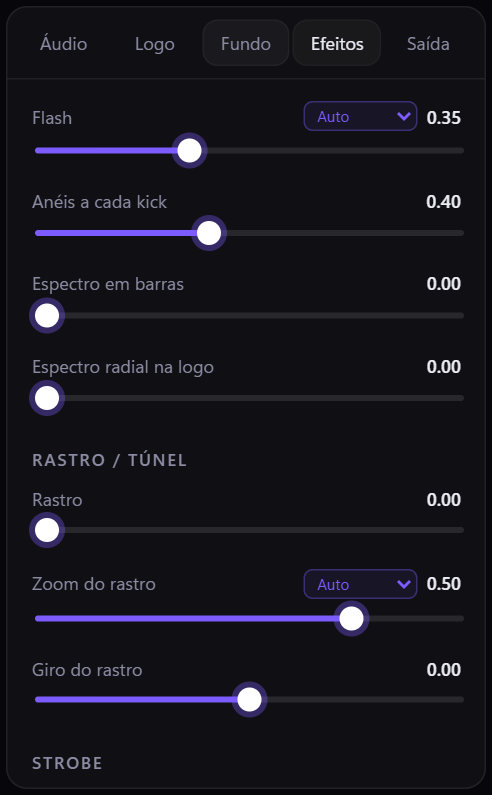
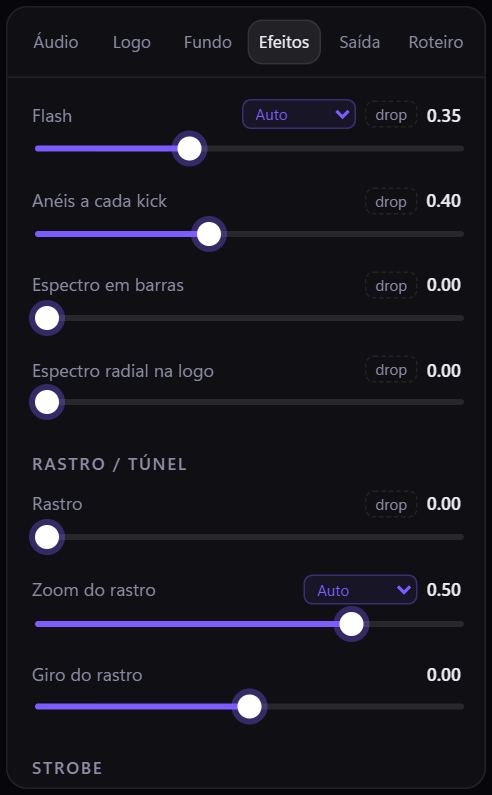
Tutorial e README: vídeo de fundo, efeitos no drop e roteiro
Capturas refeitas (barra com a pílula DROP, aba Roteiro) e novas: drop × breakdown,
vídeo no fundo, timeline do roteiro, modo DJ e GIF do roteiro tocando.

diff --git a/docs/TUTORIAL.md b/docs/TUTORIAL.md
@@ -23,14 +23,16 @@ projetar no telão e operar ao vivo (inclusive com controlador MIDI).
 9. [Fundo](#9-fundo)
 10. [Efeitos](#10-efeitos)
 11. [O que no som move cada efeito](#11-o-que-no-som-move-cada-efeito)
-12. [Projetar no telão](#12-projetar-no-telão)
-13. [Acertar o atraso do projetor (offset)](#13-acertar-o-atraso-do-projetor-offset)
-14. [Cenas: trocar o visual no meio do set](#14-cenas-trocar-o-visual-no-meio-do-set)
-15. [Controlador MIDI](#15-controlador-midi)
-16. [Atalhos do teclado](#16-atalhos-do-teclado)
-17. [Checklist do dia do show](#17-checklist-do-dia-do-show)
-18. [Problemas e soluções](#18-problemas-e-soluções)
-19. [Plano B](#19-plano-b)
+12. [Efeitos só no drop (quando o grave entra)](#12-efeitos-só-no-drop-quando-o-grave-entra)
+13. [Projetar no telão](#13-projetar-no-telão)
+14. [Acertar o atraso do projetor (offset)](#14-acertar-o-atraso-do-projetor-offset)
+15. [Cenas: trocar o visual no meio do set](#15-cenas-trocar-o-visual-no-meio-do-set)
+16. [Roteiro: efeitos marcados numa música](#16-roteiro-efeitos-marcados-numa-música)
+17. [Controlador MIDI](#17-controlador-midi)
+18. [Atalhos do teclado](#18-atalhos-do-teclado)
+19. [Checklist do dia do show](#19-checklist-do-dia-do-show)
+20. [Problemas e soluções](#20-problemas-e-soluções)
+21. [Plano B](#21-plano-b)
 
 ---
 
@@ -114,14 +116,14 @@ Funciona no improviso: pode ser o microfone do notebook ou um microfone USB pert
 |---|---|---|
 | 1 | **Entrada de áudio** + **Ouvir** | Escolhe de onde vem o som (interface, mic) e o canal. *Ouvir* liga a escuta. |
 | 2 | **Medidor** | Nível do sinal. Verde é bom; **CLIP** vermelho quer dizer que está alto demais. |
-| 3 | **BPM** + bolinhas | O andamento detectado e o estado (*procurando / ajustando / travado / segurando*). As 4 bolinhas andam no compasso. |
+| 3 | **BPM** + bolinhas | O andamento detectado e o estado (*procurando / ajustando / travado / segurando*). As 4 bolinhas andam no compasso; a pílula **DROP** acende quando há grave (seção 12). |
 | 4 | **TAP ½ ×2 ◀ ▶** | Ajuste manual do andamento (seção 7). |
-| 5 | **MIDI** e **BLACKOUT** | Liga o modo de mapear o controlador (seção 15) e apaga o telão na hora. Ao lado aparece o fps do telão. |
+| 5 | **MIDI** e **BLACKOUT** | Liga o modo de mapear o controlador (seção 17) e apaga o telão na hora. Ao lado aparece o fps do telão. |
 | 6 | **Preview** | O mesmo visual que está no telão, em tamanho pequeno. |
 | 7 | **Analisador** | Mostra o que o app está ouvindo e cada kick que ele aceitou (seção 6). |
-| 8 | **Abas de ajuste** | Áudio, Logo, Fundo, Efeitos e Saída. |
+| 8 | **Abas de ajuste** | Áudio, Logo, Fundo, Efeitos, Saída e **Roteiro** (seção 16). |
 | 9 | **Knobs de performance** | Os 10 efeitos mais usados ao vivo, sempre à mão. |
-| 10 | **Cenas** | 8 visuais prontos para trocar com crossfade no beat (seção 14). |
+| 10 | **Cenas** | 8 visuais prontos para trocar com crossfade no beat (seção 15). |
 
 ![A janela de controle funcionando](img/controle.gif)
 
@@ -249,13 +251,30 @@ os kicks. Use quando o BPM estiver certo e você não quiser que ele oscile.
 - **Cor 1 / Cor 2 / Degradê:** um fundo liso ou em degradê, com ângulo ajustável.
 - **Foto de fundo:** escolha uma imagem, ou **arraste a imagem para cima da janela**.
   *Preencher* corta para cobrir a tela toda; *Caber inteira* mostra a foto inteira.
-- **Cores da foto (automático):** ao escolher a foto, o app tira dela a cor mais viva para o
-  **brilho** (glow, anéis, flash e espectro) e as **Cor 1 / Cor 2** do fundo. Mudou as cores
-  na mão e quer voltar às da foto? Clique em **Cores da foto**.
-- **Opacidade, Desfoque e Brilho da foto:** para a foto não brigar com a logo.
+- **Cores do fundo (automático):** ao escolher a foto ou o vídeo, o app tira dele a cor mais
+  viva para o **brilho** (glow, anéis, flash e espectro) e as **Cor 1 / Cor 2** do fundo. Mudou
+  as cores na mão e quer voltar às do fundo? Clique em **Cores do fundo**.
+- **Opacidade, Desfoque e Brilho da foto/vídeo:** para a foto não brigar com a logo.
   Escurecer e desfocar um pouco costuma ficar ótimo.
 - **Girar matiz:** as cores do fundo giram sem parar (graus por segundo).
 - **Zoom do fundo / Brilho do fundo:** o fundo "respira" junto com o beat.
+
+### Vídeo em loop
+
+![Vídeo no fundo, com a logo na frente](img/video-telao.png)
+
+1. Em **Vídeo em loop**, clique em **Adicionar vídeo** (mp4 ou webm), ou **arraste o vídeo
+   para cima da janela**. Ele fica guardado no app, na sua biblioteca de vídeos.
+2. Clique no nome de um vídeo para usá-lo, ou em **Sem vídeo** para voltar à foto ou cor.
+   O **×** tira o vídeo da biblioteca.
+3. **Velocidade do vídeo:** de 0,25× (câmera lenta) a 2×.
+
+O vídeo usa os mesmos ajustes da foto (opacidade, desfoque, brilho, matiz, zoom e brilho no
+beat). Ele também pode ficar **só no drop** (seção 12). As **cenas** guardam qual vídeo está
+tocando, então trocar de cena pode trocar o vídeo.
+
+> Para o notebook não sofrer, prefira vídeos em **1080p ou menos**. Loops curtos (10 a 30 s)
+> feitos para VJ funcionam muito bem.
 
 ---
 
@@ -309,7 +328,36 @@ Ideias: **Glow → Bass** (a aura vibra com o baixo rolante), **Aberração → 
 
 ---
 
-## 12. Projetar no telão
+## 12. Efeitos só no drop (quando o grave entra)
+
+No psytrance, o breakdown tira o kick e o baixo; quando o grave volta, é o **drop**. O app
+percebe isso sozinho, e cada efeito pode ficar **só no drop**: no breakdown fica só a logo,
+limpa, e no drop os efeitos entram.
+
+| Breakdown (sem grave) | Drop (grave de volta) |
+|---|---|
+| ![Breakdown: só a logo](img/drop-breakdown.png) | ![Drop: anéis, espectro e rastro entram](img/drop-drop.png) |
+
+**Como usar:**
+
+1. Nos sliders de efeito (Flash, Anéis, Espectros, Rastro, Strobe, Aberração, Tremor, Zoom e
+   Brilho do fundo, Opacidade da foto/vídeo) há um chip **drop**.
+2. Clique nele para ligar (fica rosa). Aquele efeito passa a sumir no breakdown e entrar no drop.
+3. No topo, ao lado das bolinhas do compasso, a pílula **DROP** acende quando o app ouve grave.
+
+**Regulagem** (aba **Áudio**, seção *Drop*):
+
+- **Limiar do grave:** se a pílula DROP apaga com o grave tocando, **baixe**. Se ela acende
+  no breakdown, **suba**.
+- **Entrada/saída do drop:** quantos beats o efeito leva para aparecer e sumir. Com 1 beat o
+  drop "explode"; com 4 a 8 beats ele entra suave.
+
+> O app compara o grave de agora com o grave do último minuto. Por isso funciona igual numa
+> pista alta ou baixa, e não confunde uma faixa mais "magra" com um breakdown.
+
+---
+
+## 13. Projetar no telão
 
 ![Aba Saída](img/aba-saida.png)
 
@@ -326,7 +374,7 @@ Ideias: **Glow → Bass** (a aura vibra com o baixo rolante), **Aberração → 
 
 ---
 
-## 13. Acertar o atraso do projetor (offset)
+## 14. Acertar o atraso do projetor (offset)
 
 Todo projetor atrasa a imagem (30 a 80 ms é comum). Se nada for feito, o pulso parece
 chegar "depois" do kick. Como o app prevê o beat, dá para **adiantar** o pulso.
@@ -346,7 +394,7 @@ Para o ajuste fino durante o set, use **◀ ▶** (ou as setas do teclado). Cada
 
 ---
 
-## 14. Cenas: trocar o visual no meio do set
+## 15. Cenas: trocar o visual no meio do set
 
 ![Knobs e cenas](img/cenas.png)
 
@@ -375,7 +423,89 @@ backup, levar para outro notebook ou ter um arquivo para cada tipo de festa.
 
 ---
 
-## 15. Controlador MIDI
+## 16. Roteiro: efeitos marcados numa música
+
+Para as músicas que você conhece de cor (a abertura do set, a faixa autoral), dá para
+**marcar na música** o que acontece em cada ponto: troca de cena no drop, um strobe de 4
+beats no build, outro vídeo no breakdown, o rastro subindo devagar até o clímax.
+
+![Aba Roteiro e a timeline](img/roteiro-controle.png)
+
+### Criar um roteiro
+
+1. Abra a aba **Roteiro** e clique em **Nova música**. Escolha o arquivo (mp3, wav, flac, m4a
+   ou ogg). Ele fica **guardado dentro do app**.
+2. O app analisa a música, acha o **BPM** e o **1º beat** e desenha a música na timeline (no
+   lugar do analisador). Em **rosa** aparece o grave, então dá para ver onde estão os drops e
+   os breakdowns.
+3. Confira a grade. As linhas são os beats, e as numeradas são os compassos.
+   - Se o "1" do compasso não cai no tempo forte, use **1º tempo − / +**.
+   - Se as linhas estão um pouco antes ou depois dos kicks, use **−5ms / +5ms**.
+   - Se o BPM saiu errado, digite o BPM certo, ou confira a faixa de andamento na aba Áudio e
+     clique em **Analisar de novo**.
+
+### Marcar os pontos
+
+![Timeline com pontos](img/roteiro-timeline.png)
+
+| Na timeline | Faz |
+|---|---|
+| **Duplo clique** | Cria um ponto no beat (com **Shift**, no compasso). |
+| **Clique** num ponto | Seleciona o ponto, que você edita na aba Roteiro. |
+| **Arrastar** um ponto | Muda o ponto de lugar (com **Shift**, de compasso em compasso). |
+| **Clique** no fundo | Leva o cursor (linha branca) até ali. |
+| **Arrastar** o fundo / **roda** | Rola / dá zoom. |
+| **Delete** | Apaga o ponto selecionado. |
+
+Cada ponto é de um tipo (a cor na timeline mostra qual):
+
+| Tipo | O que faz |
+|---|---|
+| **Cena** (roxo) | Chama uma das 8 cenas, com crossfade de N beats. |
+| **Efeito** (rosa) | **Strobe** (1/1, 1/2 ou 1/4) por N beats, **Flash** (um clarão no beat), **Blackout** ou **Só logo** por N beats. Depois volta ao que estava. |
+| **Vídeo** (azul) | Troca o vídeo de fundo, de forma instantânea (o telão já deixa carregado). |
+| **Knob** (verde) | Leva um ajuste (rastro, glow, zoom, matiz…) até um valor em N beats, como uma automação. |
+
+Os pontos ficam marcados **em beats**, não em segundos. Por isso o mesmo roteiro funciona
+mesmo se o DJ mexer no pitch.
+
+### Rodar: quem toca a música?
+
+**O app toca** (*O app*). Bom para abertura, intro gravada ou apresentação.
+
+1. Escolha a **saída de áudio** (por exemplo, a que vai para a mesa).
+2. Posicione o cursor e clique em **▶ Tocar** (ou **G**). O app toca o arquivo e os pontos
+   disparam exatamente no tempo.
+3. Clicar na timeline durante a música pula para aquele ponto. O visual já assume a cena e o
+   vídeo daquele trecho.
+
+**O DJ toca nos decks** (*O DJ (GO)*). O app não sabe onde a música está, então você avisa
+com o **GO**:
+
+![Modo DJ: GO](img/roteiro-dj.png)
+
+1. Escolha o **compasso do GO**, por exemplo o 1º compasso ou o primeiro drop. Coloque o
+   cursor lá e clique em **usar cursor**.
+2. Com a música tocando e o **BPM travado**, aperte **GO** (**G** ou um pad MIDI) **no beat**
+   em que a música chega naquele compasso.
+3. Daí em diante, o roteiro anda junto com o BPM ao vivo, mesmo com o pitch mexido.
+4. Errou o GO? **‹ ›** corrigem 1 beat e **« »** corrigem 1 compasso (teclas **, .** e **; '**).
+
+![Roteiro tocando](img/roteiro.gif)
+
+### Modo
+
+- **Roteiro + ao vivo:** os pontos disparam e o visual continua reagindo ao som (pulso,
+  anéis, espectro). Os knobs, as cenas e o MIDI também continuam funcionando.
+- **Só roteiro:** o visual muda **apenas nos pontos marcados** e não reage ao som. Bom para
+  um show "coreografado", que fica igual toda vez.
+
+**Exportar / Importar** salvam o roteiro em `.json`, sem a música. Para levar a outro
+computador, importe o roteiro e use **Trocar música** para apontar o arquivo de novo.
+
+---
+
+## 17. Controlador MIDI
 
 Qualquer controlador MIDI USB funciona (Korg nanoKONTROL, Akai LPD8/MPD, Novation Launch
 Control, Arturia BeatStep…).
@@ -424,7 +554,7 @@ DoubleK. Para o visual, use um **controlador separado** (um pequeno e barato já
 
 ---
 
-## 16. Atalhos do teclado
+## 18. Atalhos do teclado
 
 | Tecla | Ação |
 |---|---|
@@ -434,17 +564,22 @@ DoubleK. Para o visual, use um **controlador separado** (um pequeno e barato já
 | **B** | Blackout |
 | **L** | Só logo |
 | **F** | Abrir/fechar o telão |
+| **G** | Roteiro: tocar / pausar (o app toca) ou **GO** (o DJ toca) |
+| **Shift + G** | Roteiro: parar |
+| **, / .** | Roteiro: −1 / +1 beat |
+| **; / '** | Roteiro: −1 / +1 compasso |
 | **Esc** | Sair do modo MIDI (no controle) · fechar o telão (no telão) |
 
 ---
 
-## 17. Checklist do dia do show
+## 19. Checklist do dia do show
 
 **Em casa (uma vez):**
 
 - [ ] Logo carregada e conferida no preview.
 - [ ] 3 ou 4 cenas montadas (ex.: calma, pesada, túnel, strobe) e nomeadas.
 - [ ] Controlador MIDI mapeado.
+- [ ] Roteiros conferidos (tocar pelo app e ver os pontos caírem no tempo).
 - [ ] **Exportar** um backup do preset para um pendrive ou para a nuvem.
 
 **Na festa (antes de abrir a pista):**
@@ -461,7 +596,7 @@ DoubleK. Para o visual, use um **controlador separado** (um pequeno e barato já
 
 ---
 
-## 18. Problemas e soluções
+## 20. Problemas e soluções
 
 | Problema | Solução |
 |---|---|
@@ -469,17 +604,21 @@ DoubleK. Para o visual, use um **controlador separado** (um pequeno e barato já
 | Medidor no **CLIP** | Abaixe o **Ganho** (ou o volume do booth). |
 | BPM na metade ou no dobro | Escolha a faixa certa de andamento ou use **½ / ×2**. |
 | BPM pulando | Ligue **Travar BPM** quando ele estiver certo, ou dê **TAP**. |
-| O pulso sai atrasado em relação ao som | **Offset visual** mais negativo (seção 13). |
+| O pulso sai atrasado em relação ao som | **Offset visual** mais negativo (seção 14). |
 | A logo pulsa com o baixo, não com o kick | Ligue **Exigir o "click" do kick** e baixe um pouco a **Sensibilidade**. |
 | Logo quase parada num breakdown longo | Depois de 30 s sem kick, o app solta o BPM e a logo passa a seguir a onda da música. Suba **Seguir a música sem kick** para ela mexer mais. O BPM volta sozinho quando o kick volta. |
 | Telão travando, fps baixo | Abaixe a **Resolução de render**. Feche outros programas. Deixe o notebook na tomada. |
 | O telão abriu no monitor errado | Feche (**F**), escolha o outro monitor na aba **Saída** e projete de novo. |
+| Efeito "só no drop" não aparece com o grave tocando | A pílula **DROP** está apagada: baixe o **Limiar do grave** (aba Áudio). |
+| Roteiro no modo DJ escorregando | O BPM ao vivo não estava travado no GO. Espere travar (ou dê TAP), e corrija com **‹ ›** / **« »**. |
+| Roteiro: pontos adiantados ou atrasados em relação à música | Alinhe a grade com **−5ms / +5ms**; se for um beat inteiro, **1º tempo − / +**. |
+| "A saída está em … Hz" ao tocar o roteiro | A saída de áudio mudou: escolha a saída de novo na aba Roteiro (a música é preparada de novo). |
 | Controlador aparece como "(ocupado)" | Outro programa está com ele (Rekordbox, Serato…). Use outro controlador ou feche o programa. |
 | O controlador não aparece | Desplugue e plugue de novo. O app reconecta em até 2 s. |
 
 ---
 
-## 19. Plano B
+## 21. Plano B
 
 Se algo der errado no notebook do show, o app antigo em HTML continua funcionando: o arquivo
 `legacy/logo-pulsante-2.0.html` abre direto no Chrome ou Edge, sem instalar nada. Vale

diff --git a/README.md b/README.md
@@ -19,9 +19,17 @@ Feito para psytrance, dark/forest e hi-tech (135–220 BPM).
 - **Efeitos em WebGL:** glow, anéis, flash, rastro/túnel, espectro radial, strobe no tempo,
   aberração cromática e tremor. Cada um pode reagir ao kick, ao sub, ao baixo, aos médios,
   aos hats, ao beat, ao compasso ou a um LFO.
+- **Efeitos só no drop.** O app percebe quando o grave some (breakdown) e quando volta; cada
+  efeito pode entrar só no drop.
+- **Vídeo em loop no fundo**, com a mesma reação ao beat da foto.
 - **8 cenas** com crossfade que começa no próximo beat. Presets exportáveis em `.json`.
+- **Roteiro por música.** Você sobe a faixa, marca os pontos na timeline (cena, strobe, vídeo,
+  knob) e roda com o app tocando o arquivo ou com o DJ nos decks (GO). Funciona no modo
+  "roteiro + ao vivo" ou "só roteiro".
 - **MIDI learn:** clique num controle da tela e mexa no knob do controlador.
 - **Instalador `.msi`** em português.
+
+![Roteiro: timeline com os pontos marcados na música](docs/img/roteiro-controle.png)
 
 | Dark túnel | Radial | Strobe |
 |---|---|---|
@@ -38,6 +46,8 @@ Feito para psytrance, dark/forest e hi-tech (135–220 BPM).
 | B | blackout |
 | L | só a logo, sem efeitos |
 | F | abrir/fechar o telão |
+| G / Shift+G | roteiro: tocar ou GO / parar |
+| , . / ; ' | roteiro: ±1 beat / ±1 compasso |
 
 Knobs: arrastar (Shift = fino), roda do mouse, duplo clique = padrão.
 
@@ -59,10 +69,11 @@ Tauri 2 + Rust (áudio e análise) + Svelte 5 / WebGL2 (telas).
 |---|---|
 | `src-tauri/src/analysis.rs` | Filtros, onset, detecção de kick (com testes sobre faixas sintéticas) |
 | `src-tauri/src/beat.rs` | Relógio do beat: BPM, fase, tap, nudge, ½/×2 |
-| `src-tauri/src/audio.rs` · `midi.rs` | Captura com reconexão; MIDI em todos os controladores |
-| `src/render/renderer.ts` | Renderer WebGL2 (usado pelo telão e pelo preview) |
-| `src/control/` | Interface de controle, knobs, cenas, MIDI learn |
-| `src/lib/settings.ts` | Ajustes, cenas, crossfade, validação de presets |
+| `src-tauri/src/audio.rs` · `midi.rs` | Captura com reconexão; reprodução da faixa do roteiro; MIDI em todos os controladores |
+| `src-tauri/src/track.rs` | Decodifica (symphonia), reamostra (rubato), grade de BPM da faixa inteira e forma de onda |
+| `src/render/renderer.ts` | Renderer WebGL2 (usado pelo telão e pelo preview), vídeo de fundo, "só no drop" |
+| `src/control/` | Interface de controle, knobs, cenas, MIDI learn, timeline e motor do roteiro |
+| `src/lib/settings.ts` · `roteiro.ts` | Ajustes, cenas, crossfade, validação de presets; modelo e regras do roteiro |
 
 ### Rodar
 
@@ -121,10 +132,10 @@ cd src-tauri && cargo test --release
 
 ```
 cd src-tauri
-cargo run --release --example analyze -- faixa.wav 135 150
+cargo run --release --example analyze -- faixa.mp3 135 150
 ```
 
-Mostra o BPM e os kicks encontrados num WAV. Compare com o BPM do Rekordbox.
+Mostra o BPM e os kicks encontrados num arquivo (mp3, wav, flac, m4a ou ogg) e a grade que o roteiro usaria. Compare com o BPM do Rekordbox.
 
 ## Plano B
 
